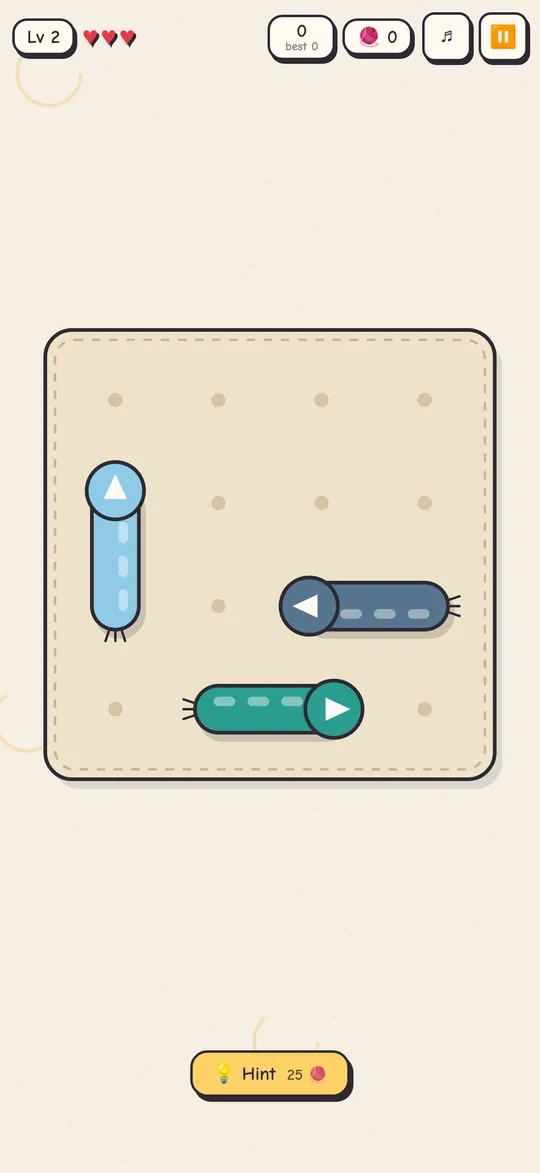
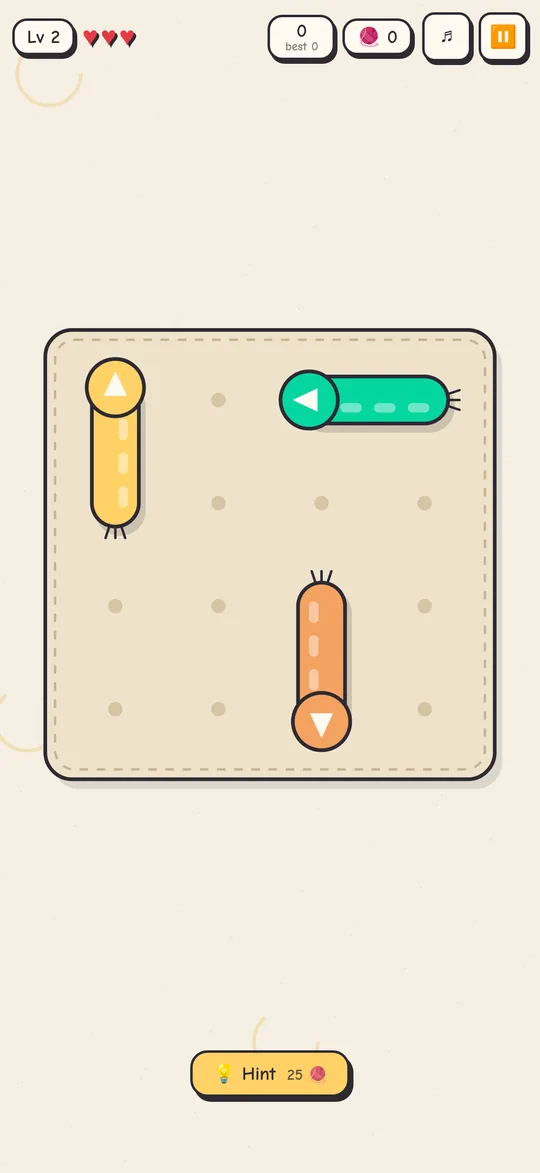
Update Marble Belt and Knotwick for new gameplay

Changed region(s): [[0.3259, 0.491, 0.8593, 0.6445], [0.1481, 0.3069, 0.2667, 0.5524], [0.5037, 0.3069, 0.8593, 0.3683]]

diff --git a/index.html b/index.html
@@ -10,7 +10,7 @@
   <meta property="og:title" content="ARORA Games — Casual puzzles for iPhone">
   <meta property="og:description" content="Three original casual puzzle games for iPhone. Coming soon to the App Store.">
   <meta property="og:url" content="https://1arora1.github.io/">
-  <meta property="og:image" content="https://1arora1.github.io/og.jpg">
+  <meta property="og:image" content="https://1arora1.github.io/img/og.jpg">
   <meta name="twitter:card" content="summary_large_image">
   <meta name="theme-color" content="#1a1838">
   <link rel="icon" href="favicon.svg" type="image/svg+xml">
@@ -104,7 +104,7 @@
               <p>Tap &amp; match conveyor puzzle</p>
             </div>
           </div>
-          <p class="deck">Marbles ride around a moving conveyor belt. Tap a marble that matches an open cup and it drops right in. Fill every cup before time runs out to clear the level. Sounds easy, until the belt gets busy.</p>
+          <p class="deck">Marbles ride around a moving conveyor belt. Tap a marble that matches an open cup and it drops right in. New colors drop in as you play, and later on, shifter marbles swap color for a score multiplier. Fill every cup before time runs out. Sounds easy, until the belt gets busy.</p>
           <ol class="howto">
             <li><span class="n">1</span><span>Tap a marble on the belt to send it to the cup of the same color.</span></li>
             <li><span class="n">2</span><span>Wrong taps go to the tray, so choose carefully.</span></li>
@@ -113,7 +113,7 @@
           <ul class="features">
             <li>One-thumb tap controls and short, quick levels</li>
             <li>Chain matches for combos and bigger scores</li>
-            <li>New twists as you climb: color order, locked cups, stones, rainbows and bombs</li>
+            <li>New twists as you climb: arriving colors, shifter marbles, color order, locked cups, stones, rainbows and bombs</li>
             <li>Bright neon look, chunky sound effects and its own music track</li>
             <li>Play offline</li>
           </ul>
@@ -130,9 +130,9 @@
           <figure class="device">
             <div class="frame">
               <span class="island" aria-hidden="true"></span>
-              <img src="mb-3.webp" width="540" height="1173" alt="Marble Belt: numbered cups that must be filled in color order.">
+              <img src="mb-3.webp" width="540" height="1173" alt="Marble Belt: a shifter marble with a rainbow ring swaps color on the belt.">
             </div>
-            <figcaption>Fill cups in the right color order</figcaption>
+            <figcaption>Shifter marbles swap color</figcaption>
           </figure>
           <figure class="device">
             <div class="frame">
@@ -213,7 +213,7 @@
               <p>Tap the arrows, free the ropes</p>
             </div>
           </div>
-          <p class="deck">A cozy logic puzzle set on a craft table. Every rope has an arrow on its end. Tap a rope and it slides out the way the arrow points, but only if nothing is in its path. Work out the right order and the whole board comes free. No timers, just thinking.</p>
+          <p class="deck">A cozy logic puzzle set on a craft table. Every rope has an arrow on its end. Tap a rope and it slides out the way the arrow points, but only if nothing is in its path. Later, numbered ropes can be pinned — pull the marked key rope first to unlock 1, then 2, then 3. No timers, just thinking.</p>
           <ol class="howto">
             <li><span class="n">1</span><span>Look at where each arrow points.</span></li>
             <li><span class="n">2</span><span>Tap a rope with a clear path to pull it off the board.</span></li>
@@ -221,7 +221,7 @@
           </ol>
           <ul class="features">
             <li>One-tap puzzles with no timers</li>
-            <li>Numbered, locked and decoy ropes as the tangles grow</li>
+            <li>Numbered, pinned, locked and decoy ropes as the tangles grow</li>
             <li>Every board is built to be solvable</li>
             <li>Hints when you are stuck, paid with yarn you earn</li>
             <li>Hand-drawn paper-craft look, soft plucky sounds and its own music track · Play offline</li>
@@ -239,9 +239,9 @@
           <figure class="device">
             <div class="frame">
               <span class="island" aria-hidden="true"></span>
-              <img src="kn-3.webp" width="540" height="1173" alt="Knotwick: ropes pointing in mixed directions on a later board.">
+              <img src="kn-3.webp" width="540" height="1173" alt="Knotwick: a numbered rope is pinned, with a dashed line to its gold-ring key rope.">
             </div>
-            <figcaption>Every rope points its own way</figcaption>
+            <figcaption>Pinned numbers need their key</figcaption>
           </figure>
           <figure class="device">
             <div class="frame">
